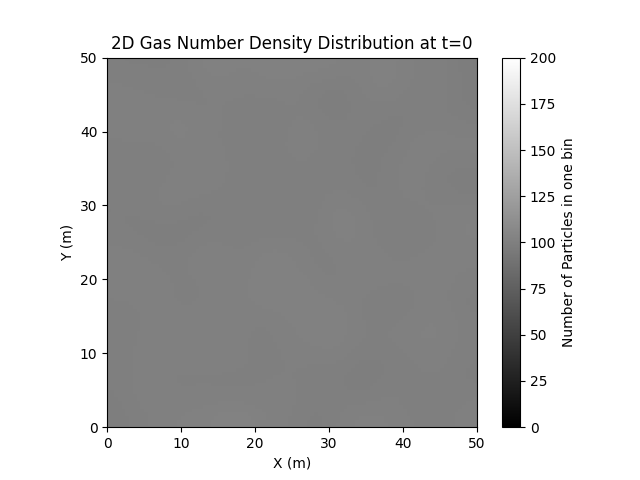
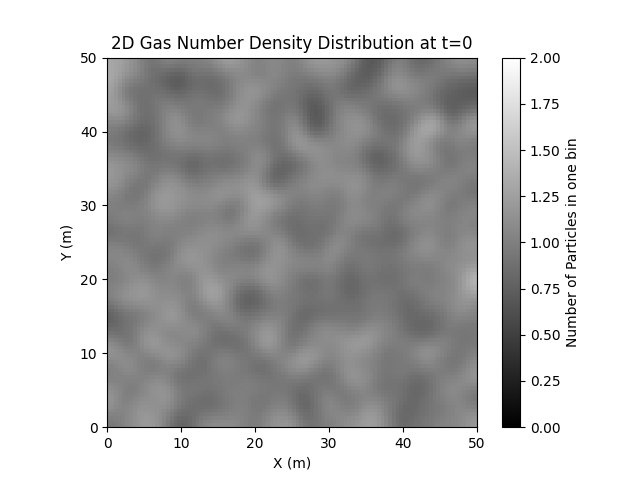
5/22

diff --git a/functions/DataProcesser.py b/functions/DataProcesser.py
@@ -108,7 +108,7 @@ class DataProcesser:
         return im
 
     @staticmethod
-    def plot_gas_temperature(particles, resolution=100,vmin=280,vmax=320,sigma=5,fig_save=False):
+    def plot_gas_temperature(particles, resolution=100,vmin=280,vmax=320,sigma=1,fig_save=False):
         """
         This function will plot the gas temperature of the particles distribution in the room. It will return the image object of the plot.
         particles: The particles object.
@@ -280,21 +280,21 @@ class DataProcesser:
         gc.collect()
         nthreads = 8
         set_num_threads(nthreads)
-        particles_number=10000
+        particles_number=100000
         particles=Particles(particles_number)
         particles.set_particles(pos_type='uniform',vel_type='Boltzmann',room_size=[0,50,0,50],T=300,molecular_weight=28.9)
         start_time = time.time()
         #DataProcesser.plot_velocity_distribution(particles.T, particles.mass, particles.vel)
         #DataProcesser.plot_position_distribution(particles.pos,room_size=particles.room_size, Nsection=1)
         #DataProcesser.plot_gas_number_density(particles, resolution=100,sigma=3,fig_save=True)
-        #DataProcesser.plot_gas_temperature(particles, resolution=100,vmin=280,vmax=320,sigma=7,fig_save=True)
-        DataProcesser.data_output(particles,'data','particles')
+        DataProcesser.plot_gas_temperature(particles, resolution=100,vmin=280,vmax=320,sigma=10,fig_save=False)
+        #DataProcesser.data_output(particles,'data','particles')
         #particles=DataProcesser.data_input('data/particles_t0000.bin')
         #DataProcesser.plot_velocity_distribution(particles.T, particles.mass, particles.vel)
-        End_time = time.time()
-        print('Time:',End_time-start_time)
+        #End_time = time.time()
+        #print('Time:',End_time-start_time)
 
-        fns=load_files('particles')
-        DataProcesser.output_movie(fns, filename='movie.mp4',fps=1,plot_func='plot_gas_number_density')
+        #fns=load_files('particles')
+        #DataProcesser.output_movie(fns, filename='movie.mp4',fps=1,plot_func='plot_gas_number_density')
         
  

diff --git a/functions/Particles.py b/functions/Particles.py
@@ -102,7 +102,7 @@ class Particles:
         """
         return np.mean(np.linalg.norm(self.vel, axis=1)**2*self.mass/(3*const.Boltzmann))
     
-    
+    @staticmethod
     @nb.njit(parallel=True)
     def rotate_particles(pos:list,vel:list,zone_radius,source_point):
         """
@@ -135,5 +135,8 @@ class Particles:
         particles_number=10
         particles=Particles(particles_number)
         particles.set_particles(pos_type='uniform',vel_type='Boltzmann',room_size=[0,50,0,50],T=300,molecular_weight=28.9) 
+        print(Particles.count_average_T(particles)) 
+        print(particles.vel)
         Particles.rotate_particles(particles.pos,particles.vel,zone_radius=25,source_point=(0,0))
+        print(particles.vel)
 
